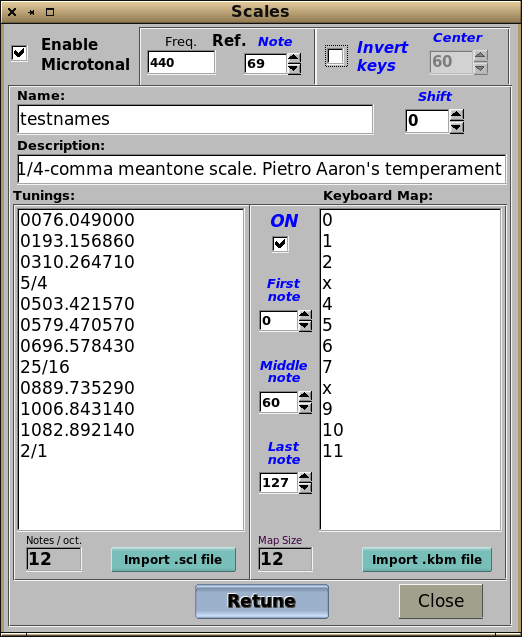
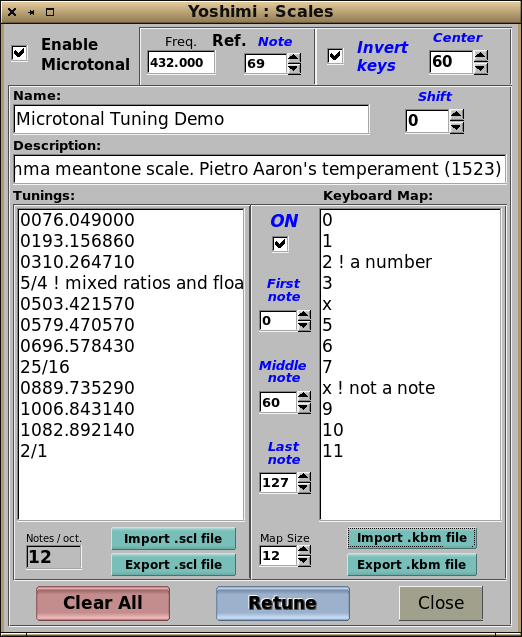
Deploy generated site
Based on source repo commit:
d6f98e6f9242b9b454e553d30e2fa827e28b6674

diff --git a/docs/user-guide/bank/bank.html b/docs/user-guide/bank/bank.html
@@ -11,7 +11,7 @@
     <a id="top"></a>
     <h2 style="text-align: center">Instrument Banks</h2>
     <p>
-    Pre-designed instrument patches are immediately available in <em>banks</em>. These in turn are contained within a bank <em>root</em>. These bank roots are themselves contained in a root <em>path</em>. The entire structure bearing a direct relationship to MIDI Program Change, Bank LSB and Bank MSB controllers. For normal work that gives up to 128 Instruments in 128 banks in 128 Roots. Yoshimi actually has an extra 32 Instruments in each bank which are only accessible to MIDI using a custom extended program change control.
+    Pre-designed instrument patches are immediately available in <em>banks</em>. These in turn are contained within a bank <em>root</em>. These bank roots are themselves contained in a root <em>path</em>. The entire structure bearing a direct relationship to MIDI Program Change, Bank LSB and Bank MSB controllers respectively. For normal work that gives up to 128 Instruments in 128 banks in 128 Roots - potentially over 2 million! Yoshimi actually has an extra 32 Instruments in each bank which are only accessible to MIDI using a custom extended program change control.
     <br><br>
     Note that Yoshimi uses the standard MIDI numbers, starting from 1 for program (instrument) changes, and 0 for banks and roots.
     <br><br>
@@ -28,16 +28,18 @@
     The menu is quick to use when changing banks, but doesn't give you the flexibility of using the buttons for bank roots and root paths. In particular, a right hand mouse click on these buttons will close this window while opening the wanted one, and a right-click on the <b>Close</b> button (bottom right) will return you to where you came from.
     </p>
     <p>
-    Below this is a table of all the instruments in the current bank, with coloured backgrounds indicating what engine types are being used. In order, these are AddSynth, SubSynth, PadSynth <em>(a reminder is shown at the bottom of the window)</em>. Clicking on one of these will load the instrument into the currently selected part, and highlight it in the bank, so you can easily see where it came from. If selected with a right-click it will also close the window.
+    Below this is a table of all the instruments in the current bank, with coloured backgrounds indicating what engine types are being used. In order, these are AddSynth, SubSynth, PadSynth <em>(a reminder is shown at the bottom of the window)</em>.
+    <br><br>Clicking on one of these will load the instrument into the currently selected part, and highlight it in the bank, so you can easily see where it came from. If selected with a right-click it will also close the window.
+    If the virtual keyboard is visible, then it will be given keyboard focus so you can use it to quickly try out different sounds.
     </p>
     <p>
-    The buttons on the bottom row determine what action is to be performed when clicking on an instrument. The square 'LEDs' show which is the currently active one, and by default it will be <b>Select</b>.
+    The buttons on the bottom row determine what action is to be performed when clicking on an instrument. The coloured underscore shows which is the currently active one, and by default it will be <b>Select</b>.
     <br><br>
     With these buttons, you set the operation you want to perform <em>before</em> clicking on an entry, and regardless of whether the action is successful or not, it will always return to 'Select' Also, the next four buttons will only work where you have filesystem write permission, as they all make actual file changes.
     <br><br>
-    <b>Rename</b> When chosen, clicking on an instrument entry a small editable window will be opened with the existing name. Changing this will change the name here and the actual filename. It will <em>not</em> change the current part.
+    <b>Rename</b> When chosen, clicking on an instrument entry a small editable window will be opened with the existing name. Changing this will change the name here and the actual filename. It will <em>not</em> change the name of the current part.
     <br><br>
-    <b>Save</b> On clicking on a table slot will save the currently selected part to that location. If there is already an entry there, you will be asked if you want to overwrite it. It will not save the default 'Simple Sound'.
+    <b>Save</b> Clicking on a table slot will save the currently selected part to that location. If there is already an entry there, you will be asked if you want to overwrite it. It will not save the default 'Simple Sound'. There would be no point, as that can easily be recovered by clearing the instrument.
     <br><br>
     <b>Delete</b> This asks for confirmation before permanently removing the selected Instrument.
     <br><br>

diff --git a/docs/user-guide/main.html b/docs/user-guide/main.html
@@ -35,7 +35,7 @@
     <p>
     <img src="images/instrument.png" alt="Instrument Menu" class="small">
     <h3>Instrument</h3>
-    <b>Show Stored</b> This will open a window with the currently selected <a href="bank/bank.html#bank">Bank</a> of instruments. A selection from this will be loaded to the current part.
+    <b>Show Stored</b> This will open a window with the currently selected <a href="bank/bank.html#bank">Bank</a> of instruments. A selection from this can be loaded to the current part.
     <br><br>
     <b>Load External</b> You can use this to load an instrument from outside Yoshimi, using the filer (which will be opened for loading). Again this will go to the current part.
     <br><br>
@@ -65,7 +65,7 @@
     <p>
     <img src="images/path.png" alt="Path Menu" class="small">
     <h3>Path</h3>
-    <b>Bank Root Dirs</b> You can manage the order and MIDI IDs of individual bank roots in the <a href="bank/bank.html#path">Root Path</a> window this opens, as well as create new empty ones.
+    <b>Bank Root Dirs</b> You can manage the order and MIDI IDs of individual bank roots in the <a href="bank/bank.html#path">Root Path</a> window this opens. You can also create new empty ones.
     <br><br>
     <b>Preset Dirs</b> This opens a window that allows you to manage the directories used for storing Copy/Paste <a href="preset/preset.html">Presets</a>. You can create new ones, set the current one or remove them.
     </p>
@@ -89,7 +89,7 @@
     <br><br>
     <b>Load</b> Opens a window for loading combined scale and keymap files.
     <br><br>
-    <b>Save</b> Saves the currently set complete microtonal scale file.
+    <b>Save</b> Saves the currently defined complete microtonal scale file.
     <br><br>
     <b>Recent Scales</b> Lists up to 25 recently seen scales.
     </p>
@@ -113,7 +113,7 @@
     <br><br>
     <b>Virtual keyboard</b> opens the window displaying this in the same way as a first time startup.
     <br><br>
-    <b>Midi Learn</b> opens the window for loading, saving and editing these learned controls.
+    <b>Midi Learn</b> opens the window for loading, saving and editing learned controls.
     <br><br>
     <b>Vectors</b> also opens another window, this time for combined control of up to four parts.
     <br><br>
@@ -134,14 +134,14 @@
     <br><br>
     <b>Volume</b> is the master volume control for the main audio output pair. It doesn't affect any individual part outputs you might have set (if using Jack audio, or LV2).
     <br><br>
-    <b>Key Shift</b> allows you to step the overall key up or down in semitone steps as much as three octaves.
+    <b>Key Shift</b> allows you to step the overall key up or down in semitone steps by as much as three octaves.
     <br><br>
     <b>F. BPM</b> This provides a reference MIDI clock within Yoshimi that will be used if there is none being sent from your external keyboard/controller.
     </P>
     <a id="system"></a>
     <img src="images/system.png" alt="The System Effects Insert" class="image">
     <p>
-    Next there is a short tabbed insert. By default this shows the <em>System</em> effects. These are applied to the whole of the main Left/Right audio outputs and immediately below it is the currently selected one. These are described in <a href="effects/effects.html">Effects.</a> The sources for system effects are shown at the bottom of the main window, and are from the output of <a href="part/part.html">Parts</a>.
+    Next there is a short tabbed insert. By default this shows the <em>System</em> effects. These are applied to the whole of the main Left/Right audio outputs and immediately below it is the currently selected one. These are described in <a href="effects/effects.html">Effects.</a>
     </p>
     <p>
     The spinbox selects the effect being managed. You can have up to four of these, and the menu selects which actual effect will be used.
@@ -156,6 +156,9 @@
     This provides the ability to form very complex effect chains. With all controls at zero, each effect passes its output direct to the main L/R pair, but if (for example) you set the control marked <b>1-&gt3;</b> about halfway, that effect will be combined with the normal input to effect 3 as well as being sent out directly.
     <br><br>
     Similarly, this combined effect can then be passed on to effect 4 with the <b>3-&gt4;</b> control, and effect 4 could also be getting some from effect 2 via <b>2-&gt4;</b>.
+    <br><br>
+    The sources for system effects are shown at the bottom of the main window, and are from the output of the currently displayed <a href="part/part.html">Part</a>.
+
     </p>
     <img src="images/boundry.png" alt="divider" class="wideline">
     <p>

diff --git a/docs/user-guide/scale/scale.html b/docs/user-guide/scale/scale.html
@@ -12,7 +12,7 @@
     <h2 style="text-align: center">Microtonal Scales</h2>
     <img src="images/pietro.png" alt="scale windows" class="image">
     <p>
-    Yoshimi fully supports the Scala microtonal scale and keymap standard and can import these files directly. These are combined with Yoshimi specific tuning controls and then saved and reloaded in our own XML format.
+    Yoshimi fully supports the Scala microtonal scale and keymap standard and can import these files directly. These are combined with Yoshimi specific tuning controls, and can then be saved and reloaded in our own XML format.
     </p>
     <p>
     (controls)
@@ -21,7 +21,7 @@
     <b>Enable</b> Activates the whole of microtonality.
     </li>
     <li>
-    <b>Ref. Freq.</b> The actual frequency of 'Ref. Note'. Usually 440Hz.
+    <b>Ref. Freq.</b> The actual frequency of 'Ref. Note'. Usually 440Hz. You must hit the 'Return' key, or click on the arrow to set any change.
     </li>
     <li>
     <b>Ref. Note</b> The MIDI value for the reference note. Usually 69 (A4).
@@ -50,15 +50,25 @@
     <b>Last note</b> The highest note in the mapping. Higher values are ignored.
     </li>
     </ul>
+    <b>Map Size</b> is the number of notes actually mapped before a wrap around. This can be different to the number of map entries. If it is greater, the unmapped ones are regarded as silent. If it is smaller, the extra entries are ignored. If it is zero, then no mapping is performed but all the above controls are still active.
     <ul>
     <li>
-    <b>Import .scl file</b> Imports all the tuning elements of a scale.
+    <b>Import .scl file</b> Imports the Scala-compatible tuning elements of a scale.
     </li>
     <li>
-    <b>Import .kbm file</b> Imports the keymapping for a scale.
+    <b>Export .scl file</b> Exports the Scala-compatible tuning elements of a scale.
     </li>
     <li>
-    <b>Retune</b> When changing either the tunings or the keyboard map you must click on this button to fix the changes.
+    <b>Import .kbm file</b> Imports the Scala-compatible keymapping for a scale.
+    </li>
+    <li>
+    <b>Export .kbm file</b> Exports the Scala-compatible keymapping for a scale.
+    </li>
+    <li>
+    <b>Clear All</b> Sets all controls to their default settings - including disabling microtonal tuning.
+    </li>
+    <li>
+    <b>Retune</b> When changing either the tunings or the keyboard map you must click on this button to fix the changes. However, this is done automatically when exporting either the Tunings or Keymap.
     </li>
     </ul>
 
@@ -73,14 +83,15 @@
     <b>Description</b> An optional description of the scale.
     </li>
     <li>
-    <b>Tunings</b> Lines of tunings either in cents as floating point numbers, or ratios such as 5/4. The number of lines determines the notes per octave (as displayed below).
+    <b>Tunings</b> Lines of tunings either in cents as floating point numbers, or ratios such as 5/4.
     </li>
     <li>
-    <b>Keyboard Map</b> The mapping of the tunings to actual keys. They can be in any order. Two keys can have the same tunings, and an 'x' denotes the key not being used at all. The map size (shown below) is set by the number of lines and can be quite different to the tunings.
+    <b>Keyboard Map</b> The mapping of the tunings to actual keys. They can be in any order. Two keys can have the same tunings, and an 'x' denotes the key not being used at all.
     </li>
     </ul>
     </p>
     <p>
+    As of Yoshimi V 2.3.1 you can add comments to the text fields. These will be included in any exports, and also in saved scales (as shown in the example). They are not recognised by earlier versions.
     </p>
   </body>
 </html>

diff --git a/docs/user-guide/navigation/navigation.html b/docs/user-guide/navigation/navigation.html
@@ -62,7 +62,7 @@
     In many places you will see a pair of small dark blue buttons marked '<b>C</b>' and '<b>P</b>'. These enable you to copy the entire contents of just that section and later paste it to either a <a href="../preset/preset.html">Presets</a> file or to another identical section. For example you can copy AddSynth Global in part 1 and then paste it to any other AddSynth Global engine, such as part 4 kit item number 7 AddSynth.
     </p>
     <p>
-    With nearly all windows, the title bar has the Yoshimi name usually followed by the instance number if it's not the main one. Most of the windows also have additional information, such as what section/context they represent and from part level upwards you will see the current part number, instrument name and if it is a kit element the kit item number.
+    With all windows, the title bar has the Yoshimi name usually followed by the instance number if it's not the main one. Most of the windows also have additional information, such as what section/context they represent and from part level upwards you will see the current part number, instrument name and if it is a kit element the kit item number.
     </p>
     <img src="../images/boundry.png" alt="divider" class="wideline">
     <h3 style="text-align: center">The Filer</h3>

diff --git a/docs/user-guide/index.html b/docs/user-guide/index.html
@@ -4,11 +4,12 @@
     <meta http-equiv="content-type" content="text/html; charset=UTF-8">
     <title>Yoshimi User Manual</title>
     <link rel="stylesheet" type="text/css" href="files/style.css">
-    <a rel="license" href="http://creativecommons.org/licenses/by-sa/4.0/"><img alt="Creative Commons License" style="border-width:0" src="https://i.creativecommons.org/l/by-sa/4.0/88x31.png" /></a> This work is licensed under a <a rel="license" href="http://creativecommons.org/licenses/by-sa/4.0/">Creative Commons Attribution-ShareAlike 4.0 International License</a>.
+    <!--<a rel="license" href="http://creativecommons.org/licenses/by-sa/4.0/"><img alt="Creative Commons License" style="border-width:0" src="https://i.creativecommons.org/l/by-sa/4.0/88x31.png" /></a> -->
+    This work is licensed under a <a rel="license" href="http://creativecommons.org/licenses/by-sa/4.0/">Creative Commons Attribution-ShareAlike 4.0 International License</a>.
   </head>
   <body>
   <!-- The next line must not be changed. It is edited at build time -->
-    <h1 style="text-align: center;">The Yoshimi User Guide V2.3.0<!--xxxxx--></h1>
+    <h1 style="text-align: center;">The Yoshimi User Guide V2.3.1<!--xxxxx--></h1>
 
     <img src="images/Main.png" alt="Contents Window" class="image">
     <p>

diff --git a/history.html b/history.html
@@ -211,6 +211,10 @@
   <p>
     At the end of May in 2023, after a gruelling development cycle, version 2.3.0 was released. It included new instruments from Art and Lorenzo, numerous improvements to the gui, code improvements, bug fixes, and engine improvements. The most prominent of the new features was making the gui themeable, with both bundled and customizable themes. The knobs and sliders were also changed to mark when they deviate from their default values. On the engine side of things, certain envelopes and sliders that were previously limited to integer increments were changed to support floating point values, lending more control over sound design in some areas.
   </p>
+  <p>
+    In mid-October of 2023, 2.3.1 was released. It added the ability to export Scala tunings and keymaps, and improved keymap handling among other smaller fixes.
+    In the meantime a lot of work was put in to improve the user guide and reference manual, primarily by <span class="person">Art Horan</span>
+  </p>
   <p>And the story continues...</p>
 
 </div>

diff --git a/downloads.html b/downloads.html
@@ -76,10 +76,10 @@ Here are links to source archives that you can compile on your machine.
   <tbody>
   <tr>
     <td>
-      <a href="https://github.com/Yoshimi/yoshimi/archive/2.3.0.zip">2.3.0</a>
+      <a href="https://github.com/Yoshimi/yoshimi/archive/2.3.1.zip">2.3.1</a>
     </td>
     <td>
-      <a href="https://github.com/Yoshimi/yoshimi/archive/2.3.0.tar.gz">2.3.0</a>
+      <a href="https://github.com/Yoshimi/yoshimi/archive/2.3.1.tar.gz">2.3.1</a>
     </td>
   </tr>
   </tbody>
@@ -99,6 +99,14 @@ Here are links to source archives that you can compile on your machine.
     </tr>
   </thead>
   <tbody>
+  <tr>
+    <td>
+      <a href="https://github.com/Yoshimi/yoshimi/archive/2.3.0.zip">2.3.0</a>
+    </td>
+    <td>
+      <a href="https://github.com/Yoshimi/yoshimi/archive/2.3.0.tar.gz">2.3.0</a>
+    </td>
+  </tr>
   <tr>
     <td>
       <a href="https://github.com/Yoshimi/yoshimi/archive/2.2.3.zip">2.2.3</a>

diff --git a/docs/user-guide/filter/filter.html b/docs/user-guide/filter/filter.html
@@ -128,7 +128,7 @@
     <br>
     An extra wrinkle is that if this has been changed and the instrument is then saved, the saved copy will have the <em>current</em> value marked as the default, without affecting the running version.
     <br>
-    Also, keep in mind that a reset, or switching to a different filter type always clears all filter settings and the formant freqency controls will gain new random values.
+    Also, keep in mind that a reset, or switching to a different filter type always clears all filter settings and the formant frequency controls will gain new random values.
     </p>
     <!--<a href="../navigation/navigation.html">Next</a> (Navigation, Controls, Defaults)-->
   </body>

diff --git a/docs/user-guide/part/part.html b/docs/user-guide/part/part.html
@@ -54,7 +54,7 @@
      <br><br>
      <b>Key Limit</b> sets the maximum number of concurrent notes for this part.
      <br><br>
-     The four controls at bottom right set the amount of this part that will be sent to each of the <em>System</em> effects.
+     The four controls at bottom right set the amount of this part that will be sent to each of the <em>System</em> effects (if they are active).
      </p>
     <img src="../images/boundry.png" alt="divider" class="wideline">
     <img src="images/mixer.png" alt="Mixer Panel Window" class="right-half">
